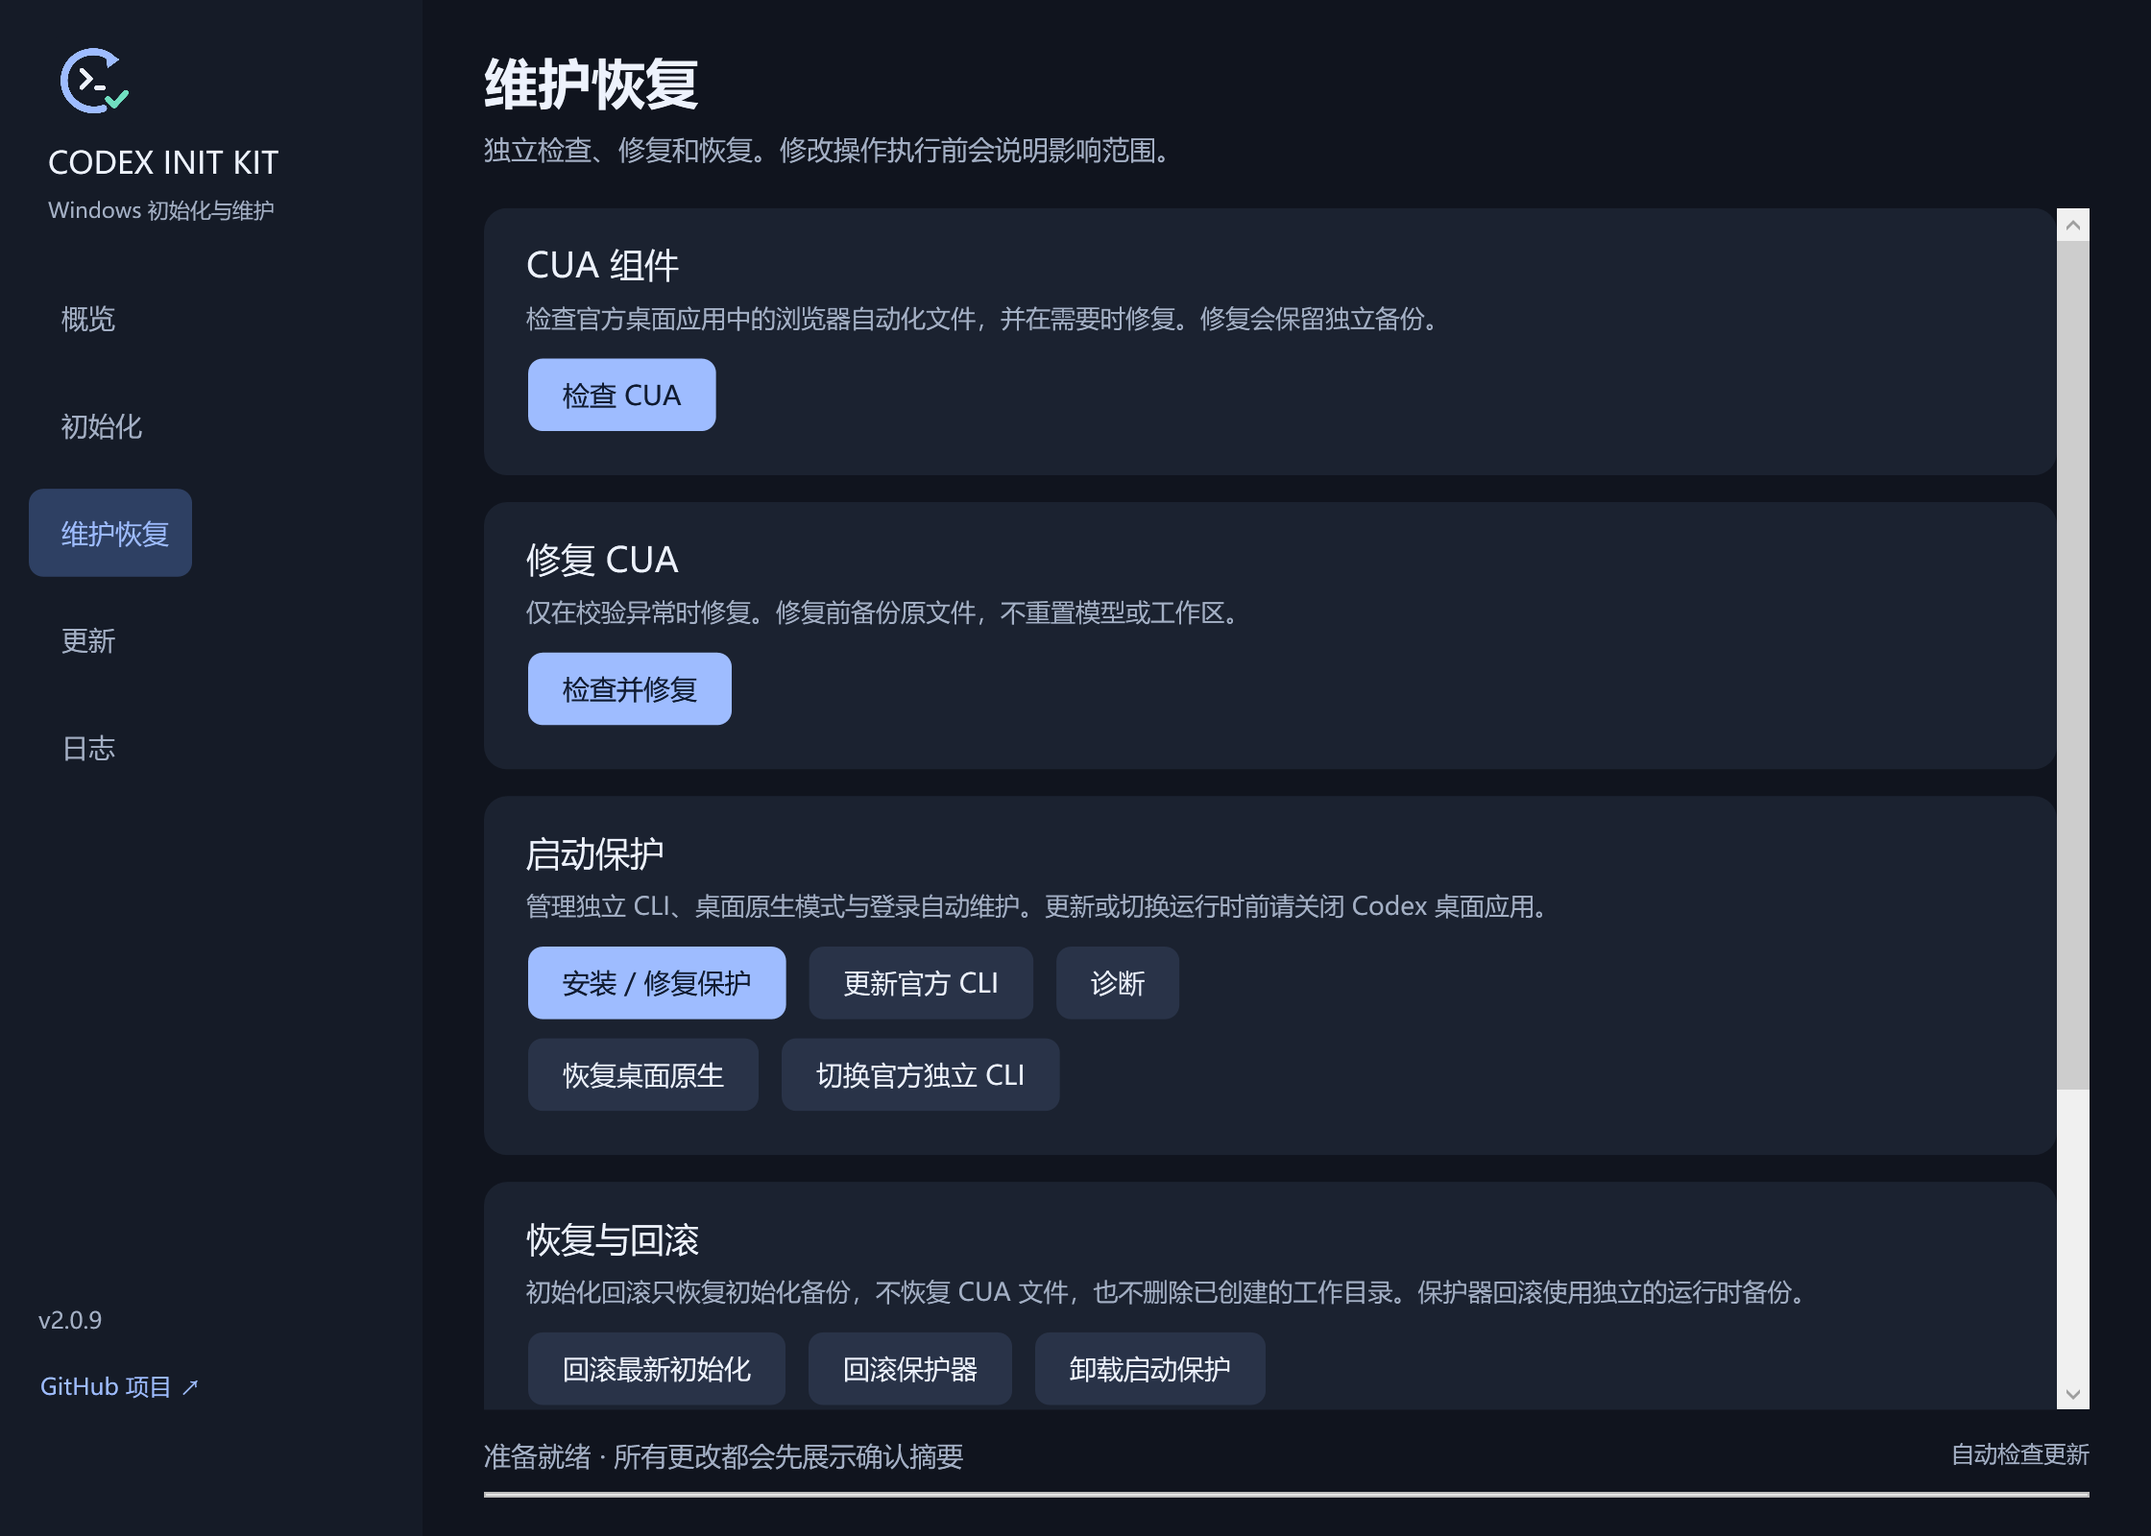
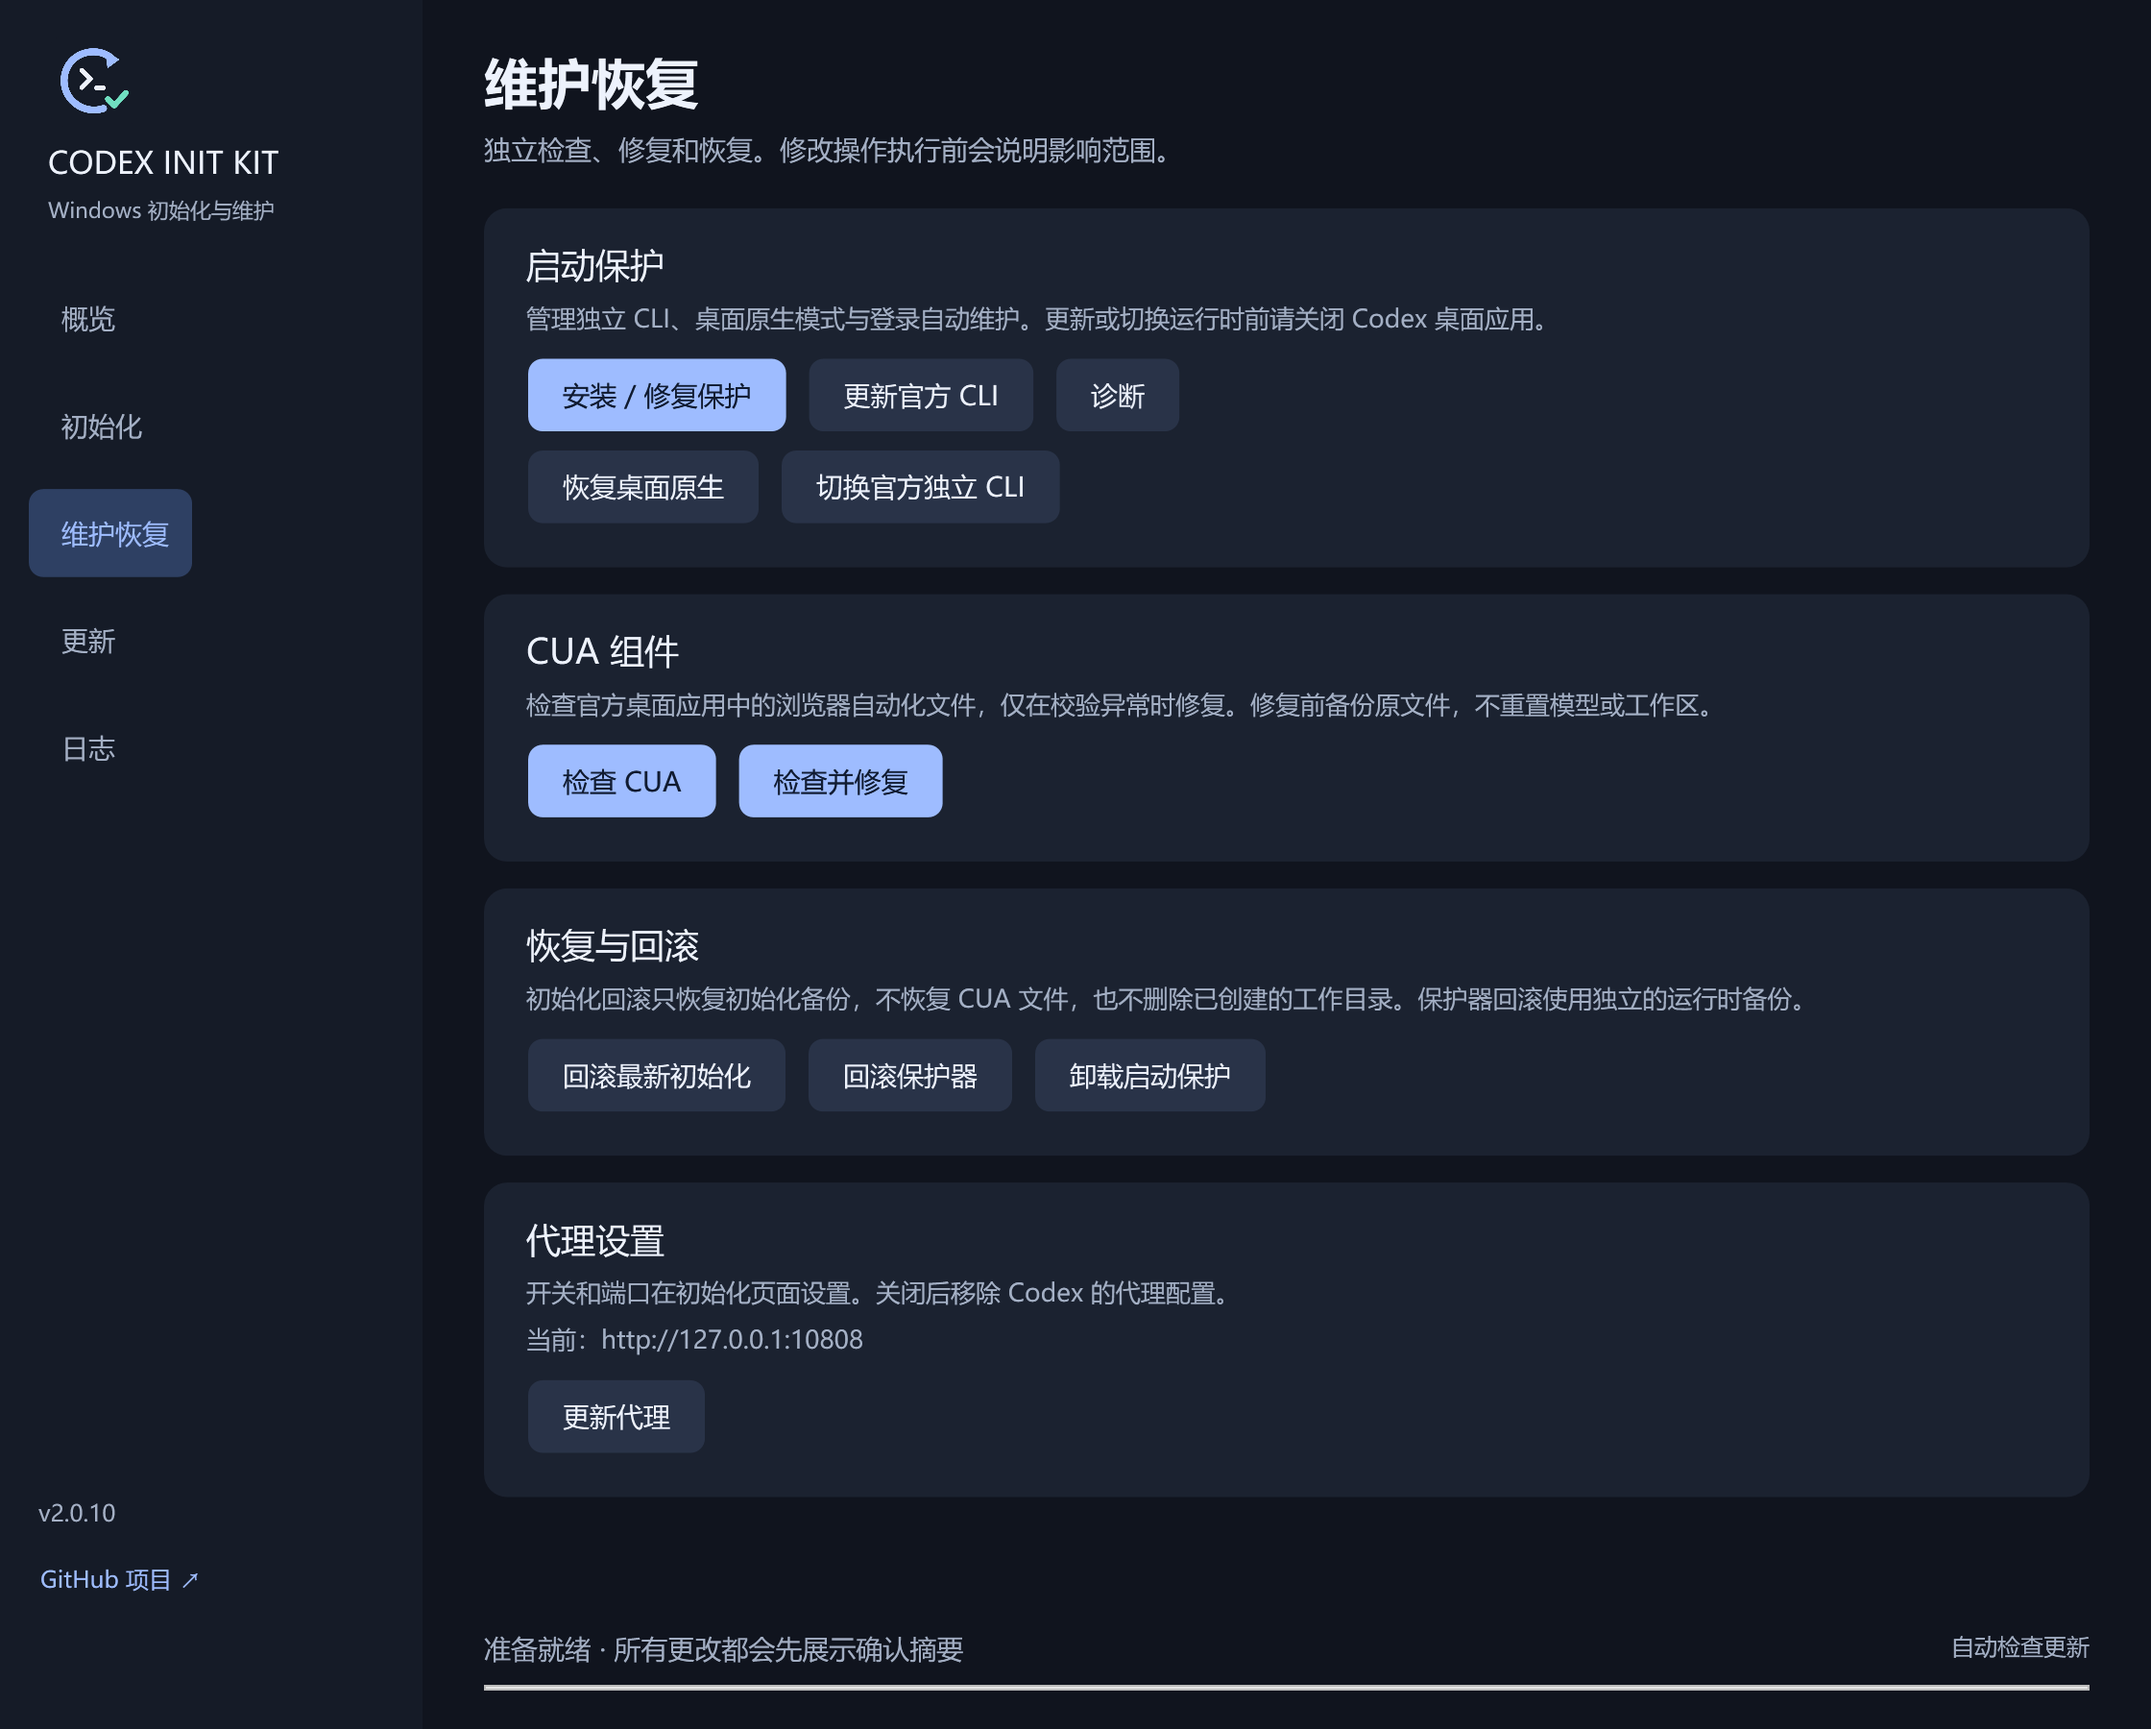
Group CUA actions and reorder maintenance sections

diff --git a/app/MainWindow.cs b/app/MainWindow.cs
@@ -155,11 +155,11 @@ public class MainWindow : Window {
     }
     void Maintenance() {
         subtitle.Text="独立检查、修复和恢复。修改操作执行前会说明影响范围。";
-        ActionCard("CUA 组件","检查官方桌面应用中的浏览器自动化文件，并在需要时修复。修复会保留独立备份。","检查 CUA","cua-check",false);
-        var cua=Card("修复 CUA","仅在校验异常时修复。修复前备份原文件，不重置模型或工作区。"); cua.Children.Add(Button("检查并修复",async()=>await Run("cua-repair","CUA 修复",true),true));
         var g=Card("启动保护","管理独立 CLI、桌面原生模式与登录自动维护。更新或切换运行时前请关闭 Codex 桌面应用。");
         Row(g,Button("安装 / 修复保护",async()=>await Run("guard-install","安装启动保护",true),true),Button("更新官方 CLI",async()=>await Run("guard-update","更新官方 CLI",true),false),Button("诊断",async()=>await Run("doctor","环境诊断",false),false));
         Row(g,Button("恢复桌面原生",async()=>await Run("guard-native","恢复桌面原生模式",true),false),Button("切换官方独立 CLI",async()=>await Run("guard-current","切换官方独立 CLI",true),false));
+        var cua=Card("CUA 组件","检查官方桌面应用中的浏览器自动化文件，仅在校验异常时修复。修复前备份原文件，不重置模型或工作区。");
+        Row(cua,Button("检查 CUA",async()=>await Run("cua-check","CUA 组件",true),true),Button("检查并修复",async()=>await Run("cua-repair","CUA 修复",true),true));
         var r=Card("恢复与回滚","初始化回滚只恢复初始化备份，不恢复 CUA 文件，也不删除已创建的工作目录。保护器回滚使用独立的运行时备份。");
         Row(r,Button("回滚最新初始化",async()=>await Run("init-rollback","回滚最新初始化",true),false),Button("回滚保护器",async()=>await Run("guard-rollback","回滚保护器",true),false),Button("卸载启动保护",async()=>await Run("guard-uninstall","卸载启动保护",true),false));
         var proxy=Card("代理设置","开关和端口在初始化页面设置。关闭后移除 Codex 的代理配置。");proxy.Children.Add(T("当前："+ProxySummary(),13,MutedBrush));proxy.Children.Add(Button("更新代理",async()=>await Run("proxy","更新代理",true),false));

diff --git a/app/Core.cs b/app/Core.cs
@@ -16,7 +16,7 @@ using System.Net.Sockets;
 
 namespace CodexKit {
 public static class Core {
-    public const string Version = "2.0.9";
+    public const string Version = "2.0.10";
     public const string Repository = "BerryFuwawa/codex-init-kit";
     public static readonly string Root = Path.Combine(Environment.GetFolderPath(Environment.SpecialFolder.LocalApplicationData), "CodexInitKit", "Desktop");
     public static readonly JavaScriptSerializer Json = new JavaScriptSerializer();

diff --git a/app/AssemblyInfo.cs b/app/AssemblyInfo.cs
@@ -2,5 +2,5 @@ using System.Reflection;
 [assembly:AssemblyTitle("Codex Init Kit")]
 [assembly:AssemblyDescription("Codex workspace initialization, CUA repair and startup protection")]
 [assembly:AssemblyProduct("Codex Init Kit Desktop")]
-[assembly:AssemblyVersion("2.0.9.0")]
-[assembly:AssemblyFileVersion("2.0.9.0")]
+[assembly:AssemblyVersion("2.0.10.0")]
+[assembly:AssemblyFileVersion("2.0.10.0")]

diff --git a/docs/Desktop.md b/docs/Desktop.md
@@ -1,4 +1,4 @@
-# Codex Init Kit Desktop 2.0.9
+# Codex Init Kit Desktop 2.0.10
 
 这个程序把初始化、电脑操作组件修复和启动维护放进一个窗口。下载 `CodexInitKit.exe` 就能使用，所需脚本已包含在程序里。
 
@@ -26,9 +26,9 @@ CUA 组件目录为 `%LOCALAPPDATA%\OpenAI\Codex\runtimes\cua_node`。有些 Win
 
 ## 获取与启动
 
-v2.0.9 已发布：[BerryFuwawa/codex-init-kit v2.0.9](https://github.com/BerryFuwawa/codex-init-kit/releases/tag/v2.0.9)。下载 [CodexInitKit.exe](https://github.com/BerryFuwawa/codex-init-kit/releases/download/v2.0.9/CodexInitKit.exe) 即可启动，无需旁置 CMD 或自行编译。环境要求为 Windows x64、.NET Framework 4.8 和 Windows PowerShell 5.1；EXE 尚未做代码签名。
+v2.0.10 已发布：[BerryFuwawa/codex-init-kit v2.0.10](https://github.com/BerryFuwawa/codex-init-kit/releases/tag/v2.0.10)。下载 [CodexInitKit.exe](https://github.com/BerryFuwawa/codex-init-kit/releases/download/v2.0.10/CodexInitKit.exe) 即可启动，无需旁置 CMD 或自行编译。环境要求为 Windows x64、.NET Framework 4.8 和 Windows PowerShell 5.1；EXE 尚未做代码签名。
 
-正式文件的 SHA-256 与大小可在发布页资产信息和 [SHA256SUMS.txt](https://github.com/BerryFuwawa/codex-init-kit/releases/download/v2.0.9/SHA256SUMS.txt) 中核对。
+正式文件的 SHA-256 与大小可在发布页资产信息和 [SHA256SUMS.txt](https://github.com/BerryFuwawa/codex-init-kit/releases/download/v2.0.10/SHA256SUMS.txt) 中核对。
 
 首次使用可直接下载 EXE。已有版本可启动后检查更新，也可手动下载替换。
 
@@ -56,7 +56,7 @@ v2.0.9 已发布：[BerryFuwawa/codex-init-kit v2.0.9](https://github.com/BerryF
 
 | 项目 | 默认值或位置 |
 | --- | --- |
-| 版本 | `2.0.9` |
+| 版本 | `2.0.10` |
 | 内嵌初始化组件 | `4.8.3` |
 | 内嵌启动保护组件 | `5.2.1` |
 | 工作目录 | `<盘符>:\Codex`；默认选 `D`，不可用时选择第一个可用固定盘 |

diff --git a/README.md b/README.md
@@ -148,7 +148,7 @@
 
 ![Codex Init Kit 维护恢复页面](assets/screenshots/maintenance.png)
 
-图片来自当前 2.0.9 EXE，按 192 DPI（200% 缩放）离线渲染，点击图片可查看高清原图。初始化设置图包含代理端口与 IP、四项功能选择和自定义模型；子代理默认未勾选。图中展开了完整内容，实际窗口可滚动。概览使用示例状态，未执行真实初始化或修复，状态以你电脑上的检测结果为准。
+图片来自当前 2.0.10 EXE，按 192 DPI（200% 缩放）离线渲染，点击图片可查看高清原图。初始化设置图包含代理端口与 IP、四项功能选择和自定义模型；子代理默认未勾选。图中展开了完整内容，实际窗口可滚动。概览使用示例状态，未执行真实初始化或修复，状态以你电脑上的检测结果为准。
 
 ## CLI 验证与源码构建
 

diff --git a/docs/Scripts.md b/docs/Scripts.md
@@ -2,7 +2,7 @@
 
 普通使用建议下载 EXE，在窗口里选择操作。下面的 CMD 是保留给习惯脚本操作的用户的入口，EXE 已经包含它们，不需要额外下载。
 
-桌面版 2.0.9 使用第 1 步内部版本 4.8.3 和第 2 步内部版本 5.2.1；脚本文件名沿用稳定入口名称。
+桌面版 2.0.10 使用第 1 步内部版本 4.8.3 和第 2 步内部版本 5.2.1；脚本文件名沿用稳定入口名称。
 
 **第 1 步负责“把配置整理好”**：目录放哪、模型用哪个、代理端口是多少，以及电脑操作组件是否完整。完整初始化会先备份再重建配置。
 

diff --git a/docs/Release-2.0.10.md b/docs/Release-2.0.10.md
@@ -1,0 +1,5 @@
+# Codex Init Kit 2.0.10
+
+调整「维护恢复」页面：启动保护放在第一栏，CUA 组件放在第二栏。「检查 CUA」和「检查并修复」合并到 CUA 组件栏，恢复与回滚、代理设置继续排列在后面。
+
+操作功能保持一致。已通过 CLI 自验，并更新高清界面预览。

diff --git a/docs/Settings.md b/docs/Settings.md
@@ -1,4 +1,4 @@
-# 初始化选项（2.0.9）
+# 初始化选项（2.0.10）
 
 可在初始化页面选择代理、功能和模型，确认页会展示本次实际选择。
 
